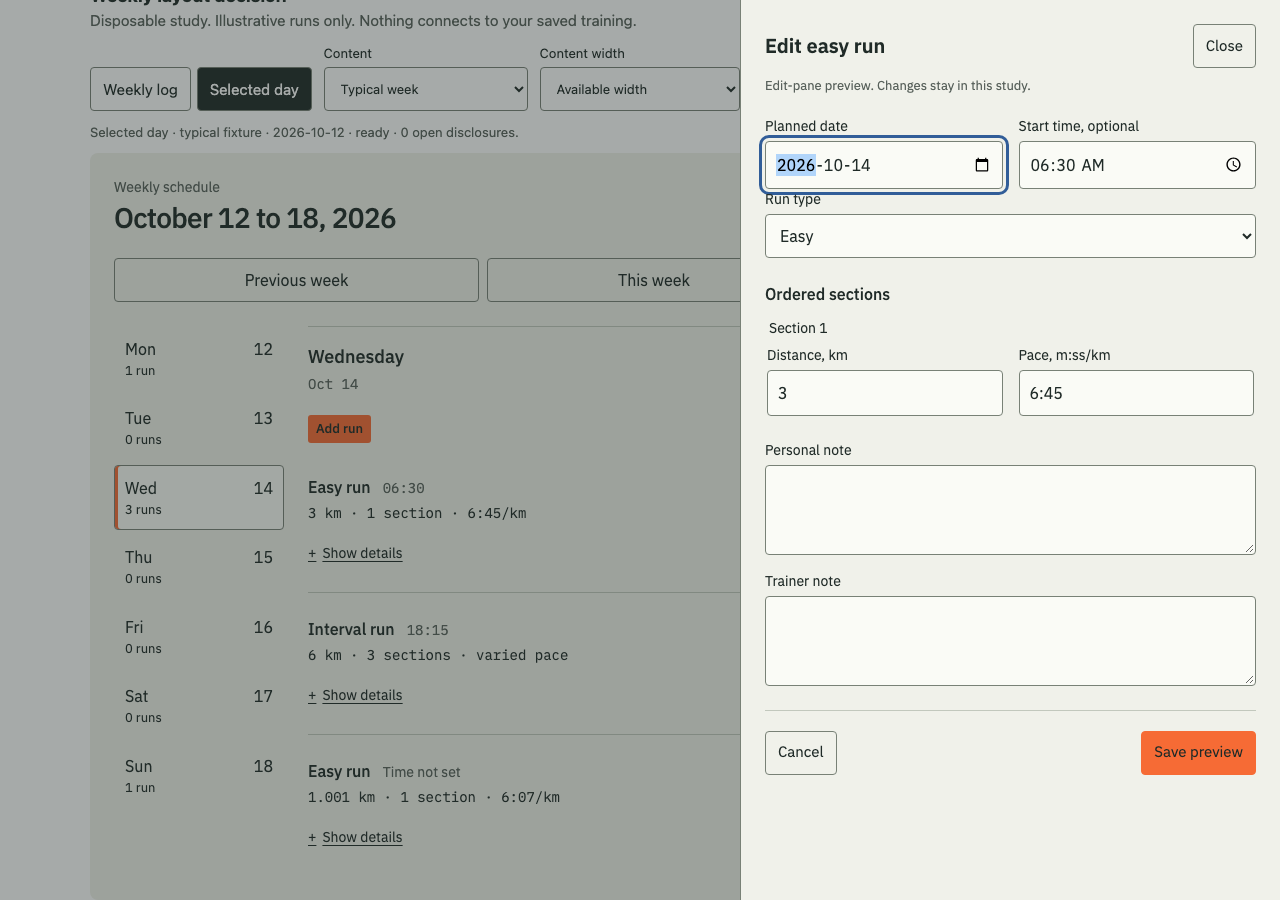
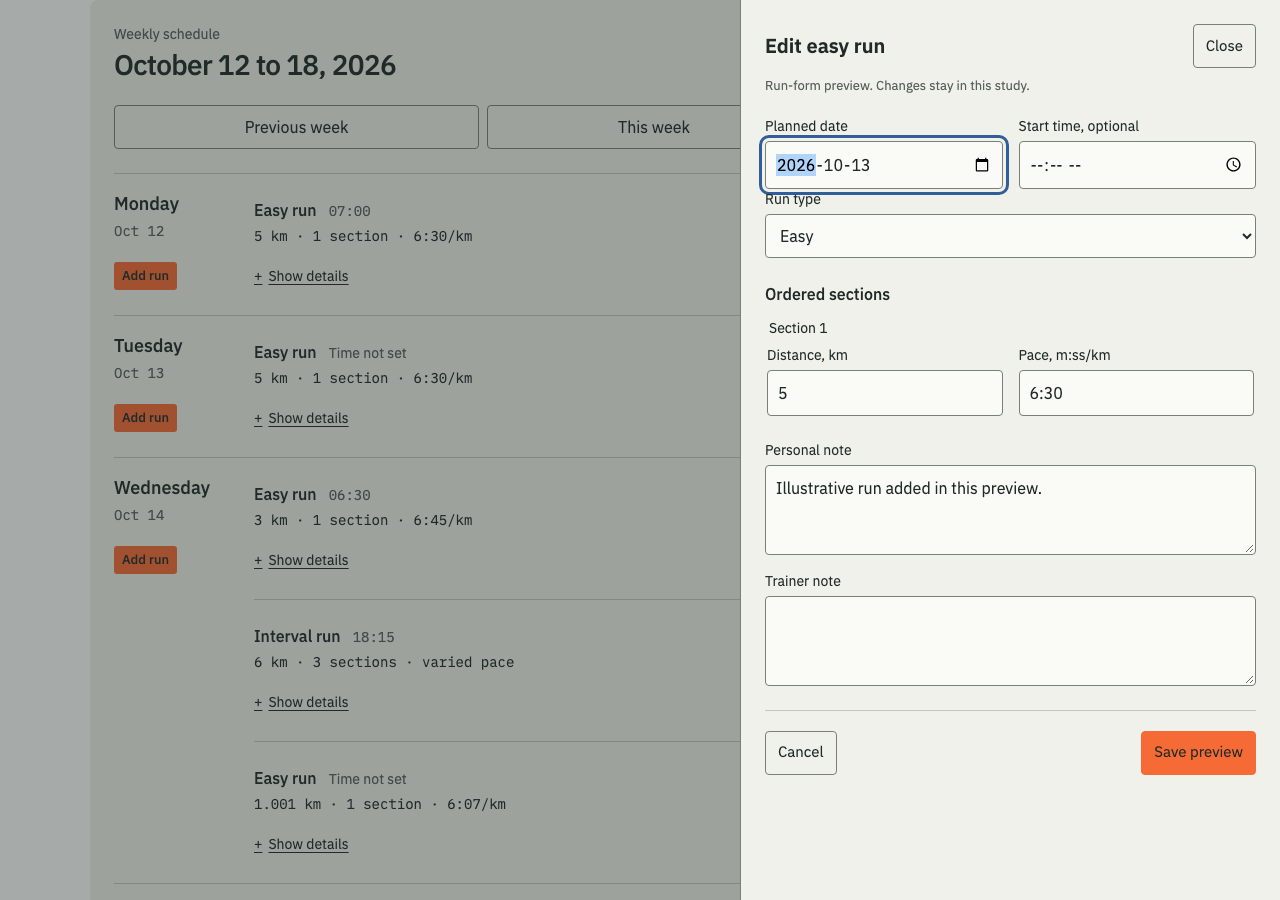
chore(design): preview run creation from the schedule

diff --git a/docs/design/weekly-layout-prototype.html b/docs/design/weekly-layout-prototype.html
@@ -1,5 +1,5 @@
 <!doctype html>
-<!-- Throwaway study for issue 44. Two weekly compositions; fixtures and navigation simulations only. -->
+<!-- Throwaway study for issue 44. Two weekly compositions; illustrative runs and local create/edit interactions only. -->
 <html lang="en">
 <head>
 <meta charset="utf-8">
@@ -186,8 +186,8 @@ dialog code { overflow-wrap: anywhere; }
       <li>Click or tap a run summary to open its edit pane, or focus it and press Enter. There is no separate Edit button. Keep time, run type, distance, section count, and shared or varied pace visible while details are closed.</li>
       <li>Each run opens independently with Enter, Space, or touch. Sections stay ordered, followed by separate personal and trainer notes. Native disclosure state is announced to assistive technology.</li>
       <li>Show details stays separate from opening the editor. Closing the pane returns focus to its run and keeps the week and disclosures in place. Week navigation and reload reset disclosures. No saved disclosure preference.</li>
-      <li>Add run replaces the empty-day placeholder. On a populated day, it sits below the day and date. It always starts on that date. A successful save shows the saved date’s week. “This week” uses Montreal’s calendar date. The pane's complete form and recovery presentations are a later design decision.</li>
-      <li>For the selected-day variant, select today within the current week, otherwise Monday. Changing a day keeps focus on its selector; week changes keep focus on the week control. Closing the edit pane keeps the selected day. Saving into another week uses the initial selection rule there.</li>
+      <li>Add run replaces the empty-day placeholder. On a populated day, it sits below the day and date. It opens the create pane on that date. Adding a preview run updates the schedule and moves Add run below the date when the day becomes populated. A successful save shows the saved date’s week. “This week” uses Montreal’s calendar date. The pane's complete form and recovery presentations are a later design decision.</li>
+      <li>For the selected-day variant, select today within the current week, otherwise Monday. Changing a day keeps focus on its selector; week changes keep focus on the week control. Closing the pane keeps the selected day. Saving selects the saved run’s day so the result is visible.</li>
       <li>Put week navigation above the schedule so a busy week does not push it out of reach. Loading and failures hide old runs, keep week navigation available, and offer retry. Retry moves focus to the week heading.</li>
     </ul>
     <p class="muted">The sidebar and full editor states belong to later decisions. The width control checks available space without deciding the sidebar geometry.</p>
@@ -381,16 +381,9 @@ OTHER DEALINGS IN THE FONT SOFTWARE.
 </pre></details>
 </main>
 <div class="switcher" aria-label="Prototype variant switcher"><button id="previous-variant" aria-label="Previous layout">←</button><output id="variant-label"></output><button id="next-variant" aria-label="Next layout">→</button></div>
-<dialog id="navigation-preview" aria-labelledby="navigation-heading">
-  <h2 id="navigation-heading" tabindex="-1">Navigation preview</h2>
-  <p id="navigation-description"></p>
-  <p><code id="navigation-url"></code></p>
-  <p class="muted">These controls simulate return destinations only. They do not design the editor or save or delete real runs.</p>
-  <div class="outcomes"><button data-return="cancel" autofocus>Cancel, return to originating week</button><button data-return="save">Save on this date</button><button data-return="move">Save on Monday of the next week</button><button data-return="delete">Delete, return to originating week</button></div>
-</dialog>
 <dialog class="editor-pane" id="run-editor" aria-labelledby="editor-title">
   <div class="editor-heading"><h2 id="editor-title">Edit run</h2><button type="button" data-close-editor>Close</button></div>
-  <p class="preview-note">Edit-pane preview. Changes stay in this study.</p>
+  <p class="preview-note">Run-form preview. Changes stay in this study.</p>
   <form id="editor-form">
     <div class="editor-fields">
       <label>Planned date<input name="planned_date" type="date" required></label>
@@ -399,7 +392,7 @@ OTHER DEALINGS IN THE FONT SOFTWARE.
     <label>Run type<select name="type"><option value="easy">Easy</option><option value="hard">Hard</option><option value="interval">Interval</option><option value="long">Long</option></select></label>
     <h3>Ordered sections</h3><div id="editor-sections"></div>
     <div class="editor-notes"><label>Personal note<textarea name="personal"></textarea></label><label>Trainer note<textarea name="trainer"></textarea></label></div>
-    <div class="editor-footer"><button type="button" data-close-editor>Cancel</button><button class="editor-save" type="submit">Save preview</button></div>
+    <div class="editor-footer"><button type="button" data-close-editor>Cancel</button><button class="editor-save" id="editor-save" type="submit">Save preview</button></div>
   </form>
 </dialog>
 <script>
@@ -412,9 +405,7 @@ let readState = ['ready', 'loading', 'failure', 'invalid'].includes(params.get('
 let monday = params.get('week') || '2026-10-12';
 let selectedDay = 2;
 let opened = new Set();
-let navigation;
 let announcement = '';
-const removed = new Set();
 const added = [];
 const moved = new Map();
 const edited = new Map();
@@ -461,7 +452,7 @@ const busy = [...typical,
 function weekRuns() {
   const source = fixture === 'empty' ? [] : fixture === 'busy' ? busy : typical;
   return [...source.map(r => ({...r, plannedDate:'2026-10-' + String(12+r.day).padStart(2,'0')})), ...added]
-    .filter(r => !removed.has(r.id)).map(r => ({...r,...edited.get(r.id),plannedDate:moved.get(r.id) || r.plannedDate}))
+    .map(r => ({...r,...edited.get(r.id),plannedDate:moved.get(r.id) || r.plannedDate}))
     .filter(r => r.plannedDate >= monday && r.plannedDate <= offset(monday,6))
     .sort((a,b) => a.plannedDate.localeCompare(b.plannedDate) || (a.time || '99:99').localeCompare(b.time || '99:99') || a.id.localeCompare(b.id));
 }
@@ -515,14 +506,16 @@ function changeWeek(value) {
 function switchVariant() { variant = variant === 'log' ? 'focus' : 'log'; render(); }
 function editorValues() { return JSON.stringify([...new FormData($('editor-form'))]); }
 function openEditor(trigger) {
-  editorRun = weekRuns().find(r => r.id === trigger.dataset.edit);
+  editorRun = trigger.dataset.edit ? weekRuns().find(r => r.id === trigger.dataset.edit) : null;
   editorTrigger = trigger;
+  const initial = editorRun || {type:'easy',personal:'',trainer:'',plannedDate:offset(monday,Number(trigger.dataset.add)),time:null,sections:[[null,null]]};
   const form = $('editor-form');
-  for (const key of ['type','personal','trainer']) form.elements.namedItem(key).value = editorRun[key];
-  form.elements.namedItem('planned_date').value = editorRun.plannedDate;
-  form.elements.namedItem('time').value = editorRun.time || '';
-  $('editor-sections').innerHTML = editorRun.sections.map((s,i) => `<fieldset class="editor-section"><legend>Section ${i+1}</legend><div class="editor-fields"><label>Distance, km<input name="distance-${i}" type="number" min="0.001" step="0.001" value="${s[0]/1000}" required></label><label>Pace, m:ss/km<input name="pace-${i}" value="${pace(s[1]).replace('/km','')}" pattern="[0-9]+:[0-5][0-9]" required></label></div></fieldset>`).join('');
-  $('editor-title').textContent = `Edit ${types[editorRun.type].toLowerCase()}`;
+  for (const key of ['type','personal','trainer']) form.elements.namedItem(key).value = initial[key];
+  form.elements.namedItem('planned_date').value = initial.plannedDate;
+  form.elements.namedItem('time').value = initial.time || '';
+  $('editor-sections').innerHTML = initial.sections.map((s,i) => `<fieldset class="editor-section"><legend>Section ${i+1}</legend><div class="editor-fields"><label>Distance, km<input name="distance-${i}" type="number" min="0.001" step="0.001" value="${s[0] === null ? '' : s[0]/1000}" required></label><label>Pace, m:ss/km<input name="pace-${i}" value="${s[1] === null ? '' : pace(s[1]).replace('/km','')}" placeholder="6:30" pattern="[0-9]+:[0-5][0-9]" required></label></div></fieldset>`).join('');
+  $('editor-title').textContent = editorRun ? `Edit ${types[editorRun.type].toLowerCase()}` : 'Add run';
+  $('editor-save').textContent = editorRun ? 'Save preview' : 'Add run to preview';
   editorBaseline = editorValues();
   $('run-editor').showModal();
   $('run-editor').scrollTop = 0;
@@ -538,17 +531,21 @@ $('editor-form').addEventListener('submit', event => {
   event.preventDefault();
   const values = new FormData(event.currentTarget);
   const savedDate = values.get('planned_date');
-  const sections = editorRun.sections.map((_,i) => {
+  const sections = Array.from($('editor-sections').children, (_,i) => {
     const [minutes,seconds] = values.get(`pace-${i}`).split(':').map(Number);
     return [Math.round(Number(values.get(`distance-${i}`))*1000),minutes*60+seconds];
   });
-  edited.set(editorRun.id,{type:values.get('type'),time:values.get('time') || null,personal:values.get('personal'),trainer:values.get('trainer'),sections});
-  moved.set(editorRun.id,savedDate);
+  const saved = {type:values.get('type'),time:values.get('time') || null,personal:values.get('personal'),trainer:values.get('trainer'),sections};
+  const savedId = editorRun ? editorRun.id : 'added-' + added.length;
+  if (editorRun) { edited.set(savedId,saved); moved.set(savedId,savedDate); }
+  else added.push({id:savedId,...saved,plannedDate:savedDate});
   $('run-editor').close();
   const destination = weekOf(savedDate);
-  announcement = 'Updated the illustrative run in this study only.';
-  if (destination !== monday) { changeWeek(destination); $('week-heading').focus(); }
-  else { render(); $('week-content').querySelector(`[data-edit="${editorRun.id}"]`).focus(); }
+  announcement = `${editorRun ? 'Updated' : 'Added'} the illustrative run in this study only.`;
+  if (destination !== monday) changeWeek(destination);
+  selectedDay = (date(savedDate).getUTCDay()+6)%7;
+  render();
+  $('week-content').querySelector(`[data-edit="${savedId}"]`).focus();
 });
 document.addEventListener('click', event => {
   const target = event.target.closest('button,a');
@@ -560,33 +557,13 @@ document.addEventListener('click', event => {
   if (target.hasAttribute('data-retry')) { opened.clear(); readState = 'ready'; render(); $('week-heading').focus(); }
   if (target.dataset.edit) { event.preventDefault(); openEditor(target); return; }
   if (target.hasAttribute('data-close-editor')) { closeEditor(); return; }
-  if (target.dataset.add !== undefined) {
-    event.preventDefault();
-    navigation = {origin:monday, plannedDate:offset(monday,Number(target.dataset.add)), trigger:target};
-    $('navigation-description').textContent = `Add a run on ${navigation.plannedDate}.`;
-    $('navigation-url').textContent = target.getAttribute('href');
-    document.querySelector('[data-return="delete"]').hidden = true;
-    $('navigation-preview').showModal();
-  }
-  if (target.dataset.return) {
-    const outcome = target.dataset.return;
-    const destinationDate = outcome === 'move' ? offset(navigation.origin,7) : navigation.plannedDate;
-    if (outcome === 'delete') removed.add(navigation.id);
-    if (['save','move'].includes(outcome)) {
-      if (navigation.id) moved.set(navigation.id,destinationDate);
-      else added.push({...run('added-' + added.length,0,'easy',null,[[5000,390]]),plannedDate:destinationDate});
-    }
-    $('navigation-preview').close();
-    announcement = `Simulated ${outcome}. All details reset. Nothing was saved to Aweille.`;
-    changeWeek(['cancel','delete'].includes(outcome) ? navigation.origin : weekOf(destinationDate));
-    $('week-heading').focus();
-  }
+  if (target.dataset.add !== undefined) { event.preventDefault(); openEditor(target); }
 });
-$('fixture').onchange = event => { fixture = event.target.value; removed.clear(); added.length = 0; moved.clear(); edited.clear(); announcement = ''; monday = '2026-10-12'; selectedDay = 2; opened.clear(); render(); };
+$('fixture').onchange = event => { fixture = event.target.value; added.length = 0; moved.clear(); edited.clear(); announcement = ''; monday = '2026-10-12'; selectedDay = 2; opened.clear(); render(); };
 $('width').onchange = event => { width = event.target.value; render(); };
 $('read-state').onchange = event => { readState = event.target.value; opened.clear(); render(); };
 document.addEventListener('keydown', event => {
-  if (event.target.closest('input,textarea,select,summary,button,a,[contenteditable]') || $('navigation-preview').open || $('run-editor').open) return;
+  if (event.target.closest('input,textarea,select,summary,button,a,[contenteditable]') || $('run-editor').open) return;
   if (['ArrowLeft','ArrowRight'].includes(event.key)) { event.preventDefault(); switchVariant(); }
 });
 window.addEventListener('popstate', () => {

diff --git a/docs/design/weekly-layout-review.md b/docs/design/weekly-layout-review.md
@@ -14,7 +14,7 @@ The study compares the two existing compositions. Its controls select typical, b
 
 Examples are illustrative layout data, not saved runs or training recommendations. The busy fixture includes 11 runs, timed and untimed siblings, a 14-section run, long notes, an unbroken reference, French text, and a 0.001 km section. Previous/next navigation changes the week; fixtures live in the week of October 12. This week uses the Montreal calendar date. Native browser back restores the selected week with details closed.
 
-Run summaries use the existing edit paths as native links, intercepted in this study to open a modal side pane. The pane shows the clicked run's date, optional time, type, ordered section targets, and separate notes. Its Save preview changes only fixture memory. Add run still opens a separate return-destination simulation. Reload or selecting another fixture clears local changes. The pane's geometry and complete form, deletion, and recovery states remain provisional for the later form-design decision.
+Run summaries use the existing edit paths as native links, intercepted in this study to open a modal side pane. The pane shows the clicked run's date, optional time, type, ordered section targets, and separate notes. Its Save preview changes only fixture memory. Add run opens the same pane in create mode, with the chosen day prefilled, optional time and notes blank, and required distance/pace targets blank. Add run to preview creates a local run and updates the schedule; the earlier navigation-simulation dialog has been removed. Reload or selecting another fixture clears local changes. The pane's geometry and complete form, deletion, and recovery states remain provisional for the later form-design decision.
 
 ## Proposal for review
 
@@ -24,15 +24,17 @@ Retain the approved initially collapsed, independent disclosures. Summaries show
 
 Following Arnaud's next placement proposal, an empty day puts Add run in the content area instead of No runs planned. A day with one or more runs puts Add run below the day and date in the left column. There is exactly one date-scoped Add run per day. The compact orange button keeps its 28px visible height and click area at least 44px high and wide. On narrow screens the date column becomes the header above the runs, and the button follows the same content-dependent placement.
 
-Keep opened disclosures and the selected day while opening and closing the pane. Close, Cancel, and Escape return focus to the clicked run. Dirty pane values prompt before discard. A preview save in the same week refreshes the run, keeps disclosures, and returns focus to its summary. A preview save into another week shows the saved date's week, resets disclosures, and focuses the week heading. A week change and reload reset disclosures; no saved disclosure preference is implied. This replaces the earlier full-page-return proposal for edit cancellation.
+Keep opened disclosures and the selected day while opening and closing the pane. Close, Cancel, and Escape return focus to the clicked run. Dirty pane values prompt before discard. A preview save in the same week refreshes the schedule and keeps disclosures. A preview save into another week shows the saved date's week and resets disclosures. Both create and edit saves select the saved run's day in the selected-day composition and focus its summary so the result is visible. A week change and reload reset disclosures; no saved disclosure preference is implied. This replaces the earlier full-page-return proposal for edit cancellation.
 
-Keep Add run scoped to its date. Create/save still shows the saved date's week and create cancellation returns to the originating week. For the selected-day alternative, arrival selects today in the current week or Monday in another week; opening and closing the pane does not change the selected day. Production create/edit/deletion destinations and current recovery behavior remain the baseline for the later integrated form design. The pane is an interaction specimen, not a finished replacement for those workflows.
+Keep Add run scoped to its date. Create/save shows the saved date's week. Create cancellation closes the pane, returns focus to the original Add run, and leaves the originating week unchanged. For the selected-day alternative, arrival selects today in the current week or Monday in another week; opening and closing the pane does not change the selected day. Production create/edit/deletion destinations and current recovery behavior remain the baseline for the later integrated form design. The pane is an interaction specimen, not a finished replacement for those workflows.
 
 Move week controls above the schedule. Loading and errors hide the old runs while keeping week controls available. Failure includes Retry, which restores the same selected week. An invalid selection disables previous/next and leaves This week available. Empty loaded weeks retain all seven Add run destinations.
 
 The sidebar's design remains in its own decision. The 760px width option checks available space without implementing a sidebar or settling its threshold. The specimen keeps branding out of the page header, consistent with sidebar-only branding. Exact tokens and production font policy remain provisional.
 
 ## Evidence
+
+The create interaction passed in both layouts at 320px and 1280px. Checks covered chosen-date prefill, required blank targets preventing empty submission, exact sample measurements, an empty day becoming populated and moving its Add run button, a second run with timed-first ordering, cancel returning focus without creating a run, editing the newly added run, a changed save date selecting the correct day/week, and reload clearing local additions. No browser errors occurred. [Desktop create pane](weekly-layout-review/desktop-create-pane.png), [phone create pane](weekly-layout-review/phone-create-pane.png), and [schedule after adding a run](weekly-layout-review/after-add-run.png) capture the interaction.
 
 The conditional Add run placement was checked against empty, typical, and busy fixtures in both layouts at 320px and 1280px. Each visible day has exactly one Add run, located in the content area when empty or below its date when populated. Date-scoped activation and narrow-layout fit passed.
 
